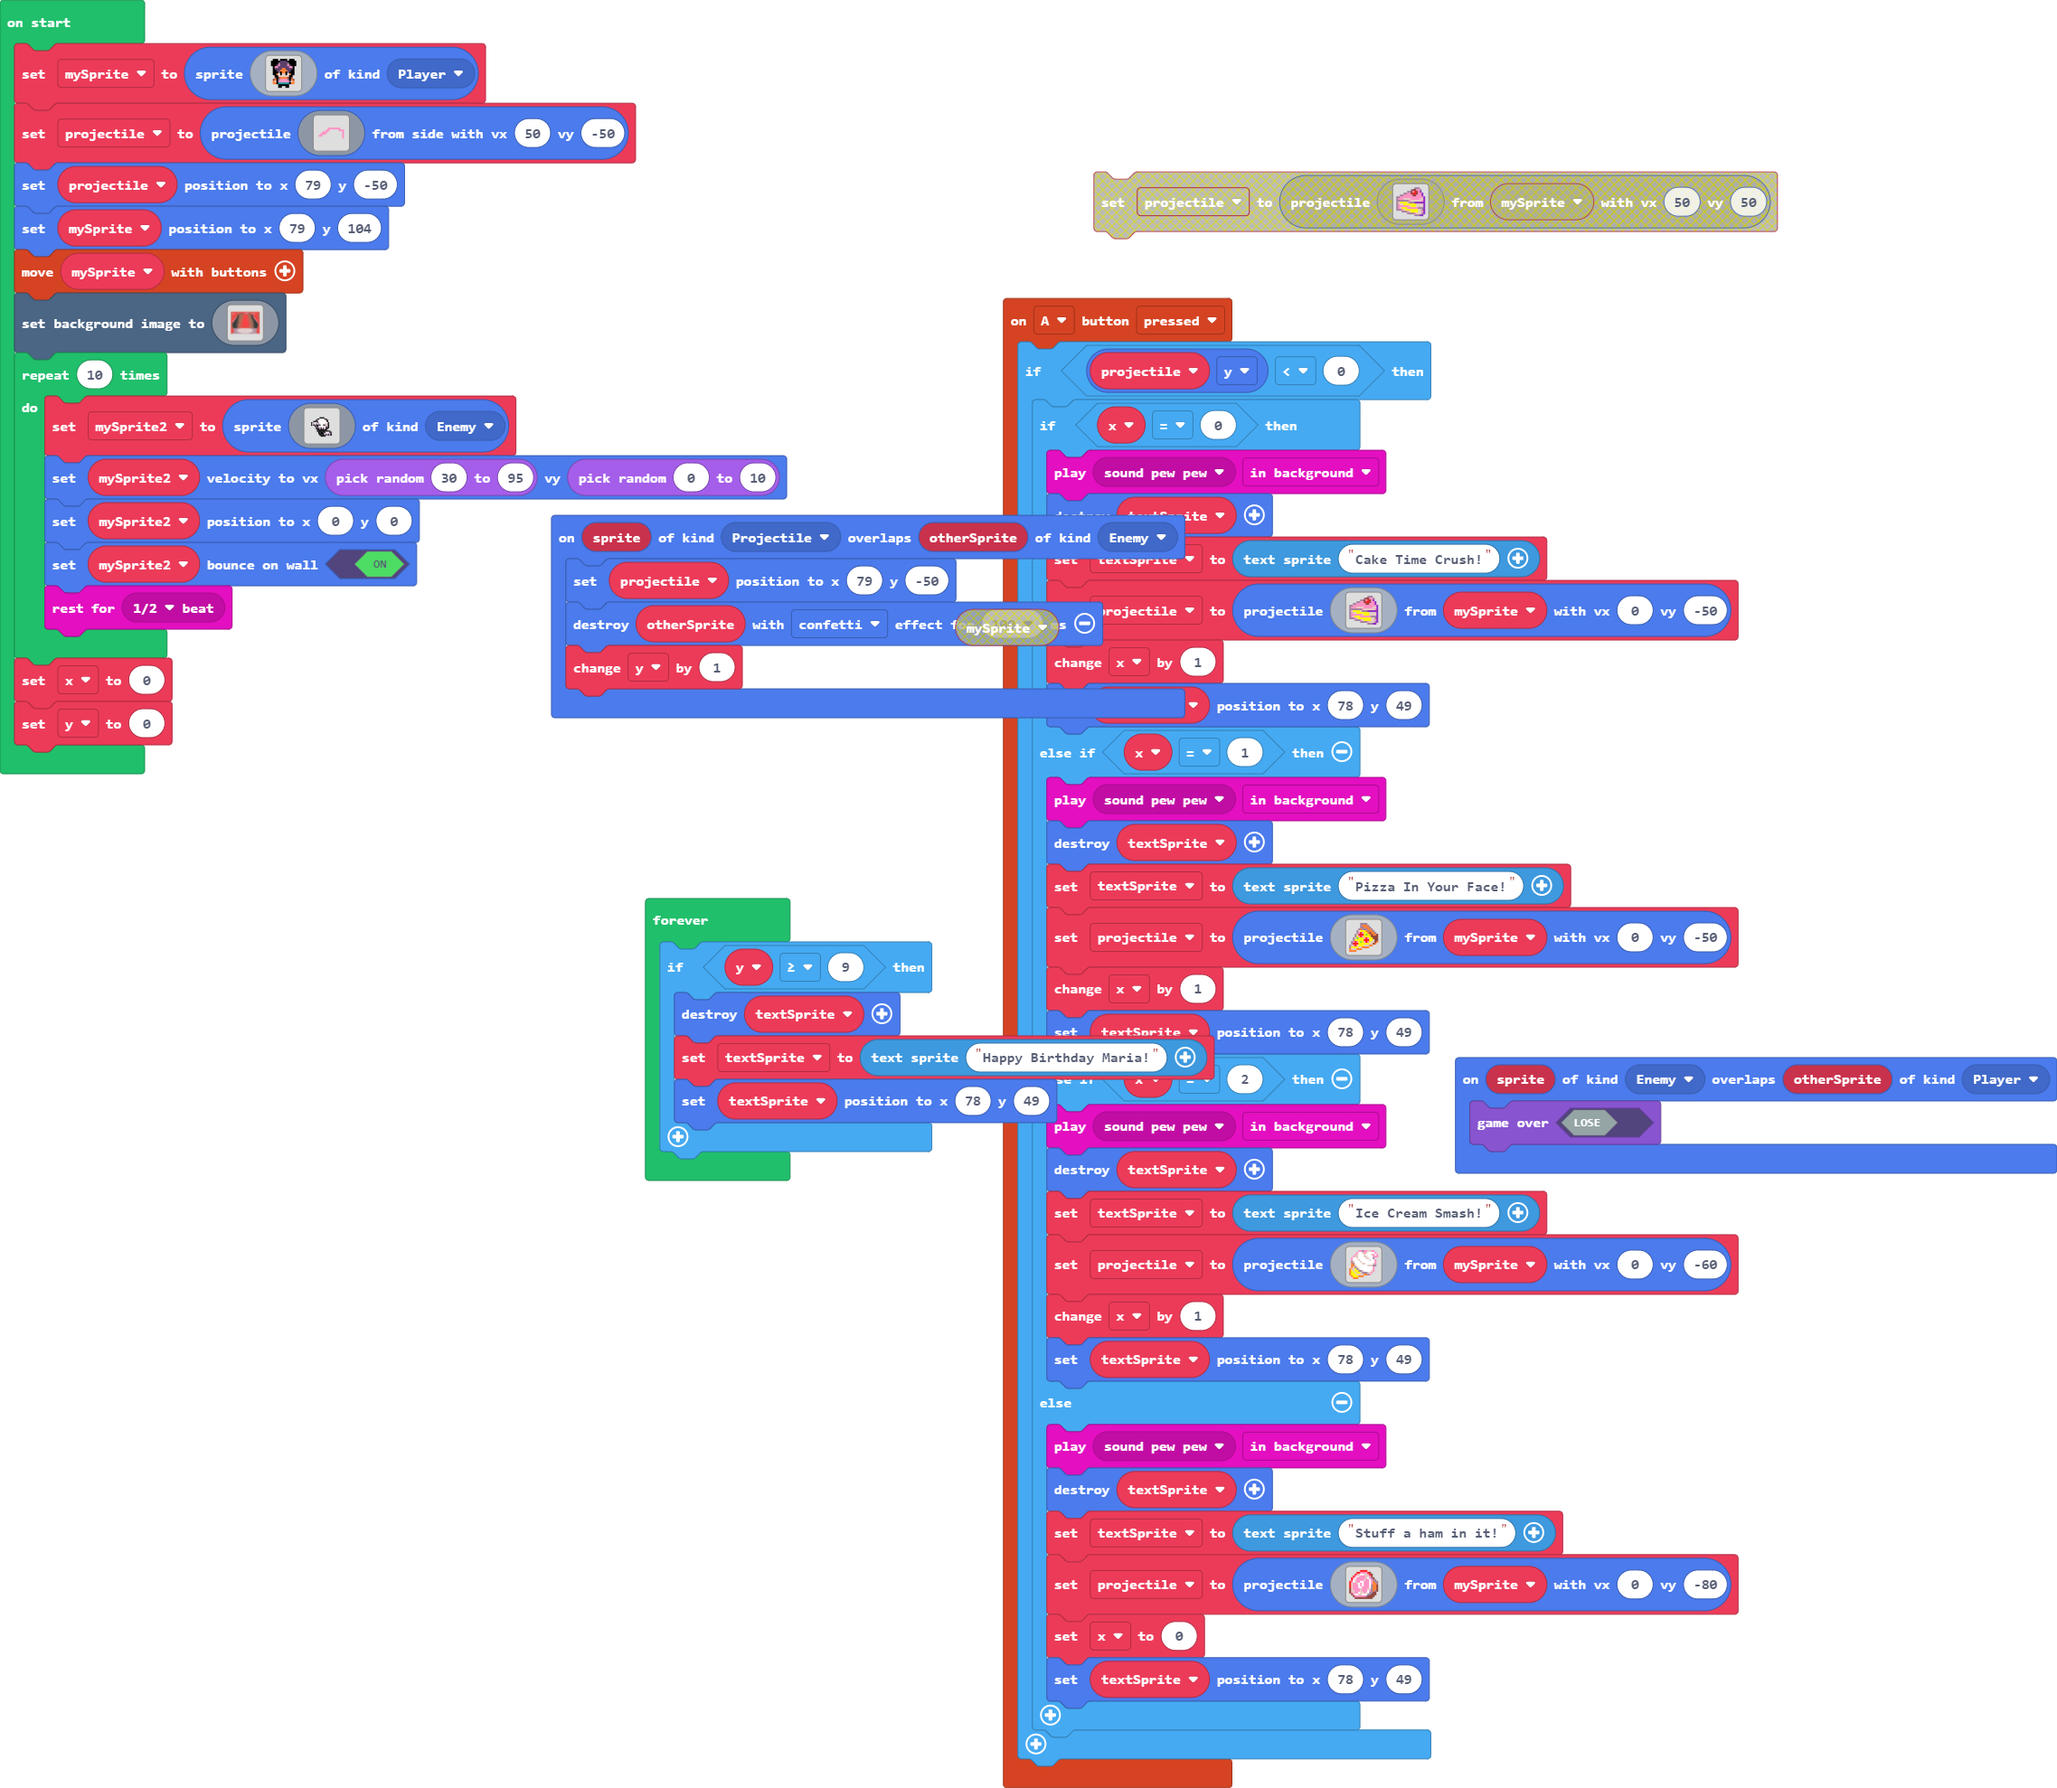
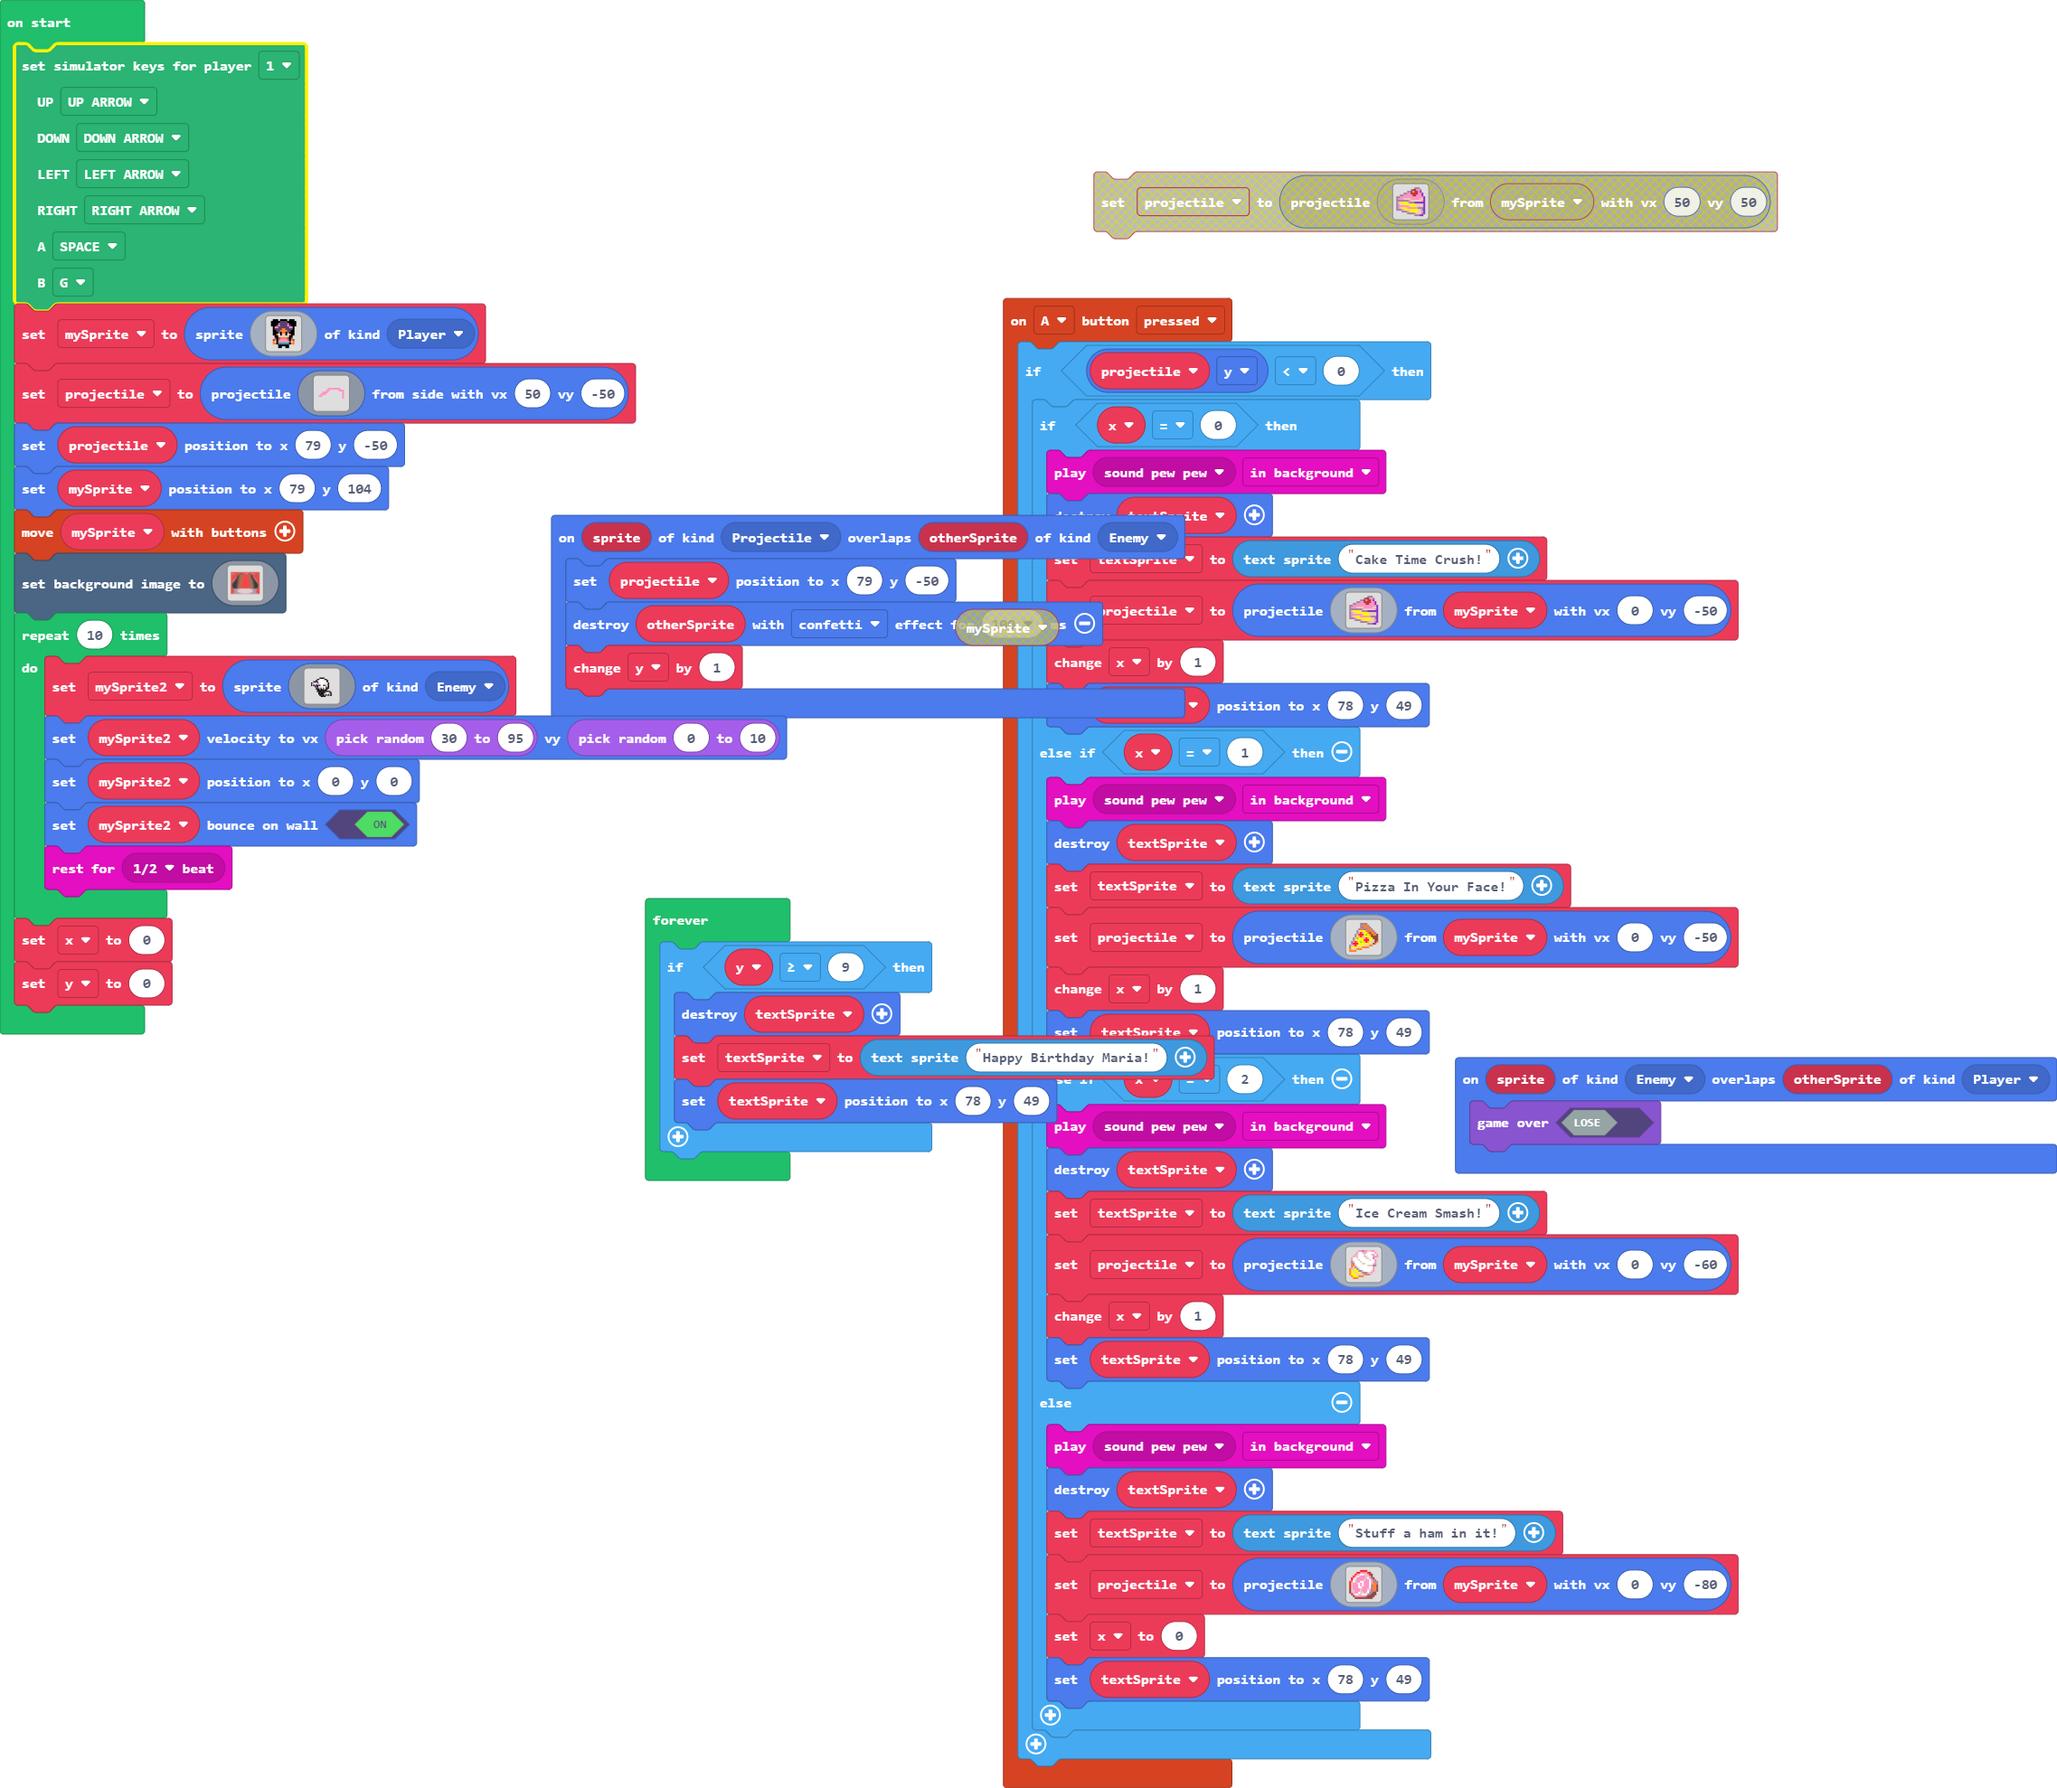
Update main.blocks, main.ts

Changed region(s): [[0.0, 0.0, 0.4057, 0.5859]]

diff --git a/main.ts b/main.ts
@@ -112,6 +112,15 @@ let x = 0
 let mySprite2: Sprite = null
 let projectile: Sprite = null
 let mySprite: Sprite = null
+MakeyMakey.setSimulatorKeymap(
+MakeyMakey.PlayerNumber.ONE,
+MakeyMakey.MakeyMakeyKey.UP,
+MakeyMakey.MakeyMakeyKey.DOWN,
+MakeyMakey.MakeyMakeyKey.LEFT,
+MakeyMakey.MakeyMakeyKey.RIGHT,
+MakeyMakey.MakeyMakeyKey.SPACE,
+MakeyMakey.MakeyMakeyKey.G
+)
 mySprite = sprites.create(img`
     . f f f . f f f f . f f f . 
     f f f f f c c c c f f f f f 
